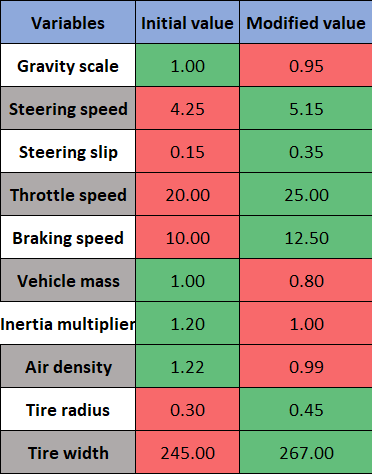
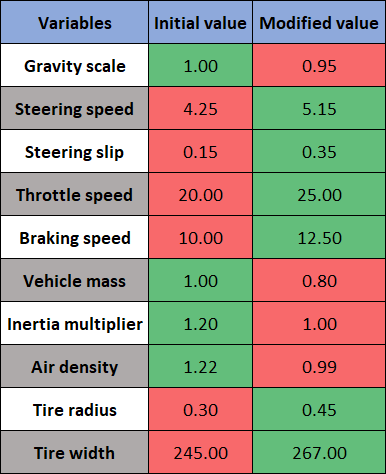
updade dust devil

diff --git a/_pages/dust-devil.md b/_pages/dust-devil.md
@@ -24,8 +24,8 @@ author_profile: true
 My contributions included:
 
 * Designing vehicle navigation system.
-* Designing infantry enemy.
 * Designing enemy vehicle.
+* Designing infantry enemy.
 * Designing UI/UX elements.
 * Designing the desert level.
 * Creating and maintaining the Game Design Document.
@@ -50,13 +50,13 @@ Because of the short development timeline, instead of creating a vehicle physics
 
 I tested all available car models but none of them met our desired results. They weren't responsive enough, drifting didn't feel enjoyable, jumping off the dunes felt heavy. I realized that if I adjusted the vehicle behavior to better match an arcade experience, we can still use this plugin and achieve the desired result and save ourselves a lot of time.
 
+![vehicle navigation balance editor](/images/dust-devil/vehicle-navigation-system-balance-editor.png)
+
 ## Designing and balancing new navigation system
 
 By looking at famous twin stick shooter games such as PAKO 2, and through iteration by tweaking differnt variables I found the best values for each one:
 
-![vehicle-navigation-balance-spreadsheet](/images/dust-devil/vehicle-navigation-system-balance-spreadsheet.png)
-
-![vehicle-navigation-balance-editor](/images/dust-devil/vehicle-navigation-system-balance-editor.png)
+![vehicle navigation balance spreadsheet](/images/dust-devil/vehicle-navigation-system-balance-spreadsheet.png)
 
 Additional effects were added to improve player feedback:
 
@@ -172,13 +172,8 @@ Working within the game jam environment also improved my ability to prioritize f
 
 
 
-The goal of the project was to create an easy to learn game that engages the player from the beginning and then new challenges will be emerged later. This requires that players immediately understand the controls while still having opportunities to improve their performance through movement, positioning, and combat decisions.
 
 Because the project was created within a one week game jam, the design focus was on creating a strong core gameplay loop rather than building a large amount of content.
 
 The final gameplay loop became:  
 **Explore the desert → engage enemies → survive encounters → achieve a higher score**
-
-
-* Build a recognizable desert environment with a retro arcade feeling.
-* Create enemy encounters that are easy to understand but require player awareness.
